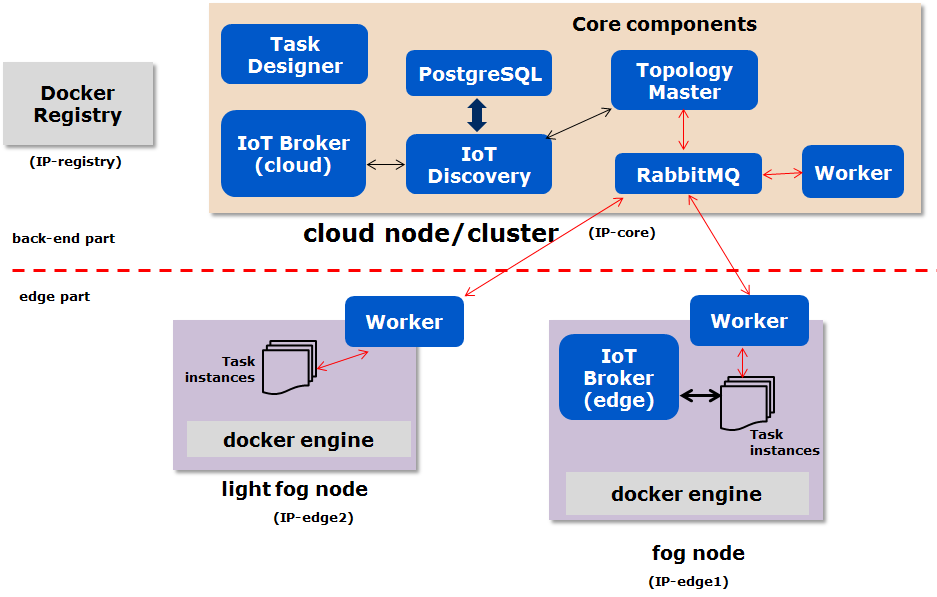
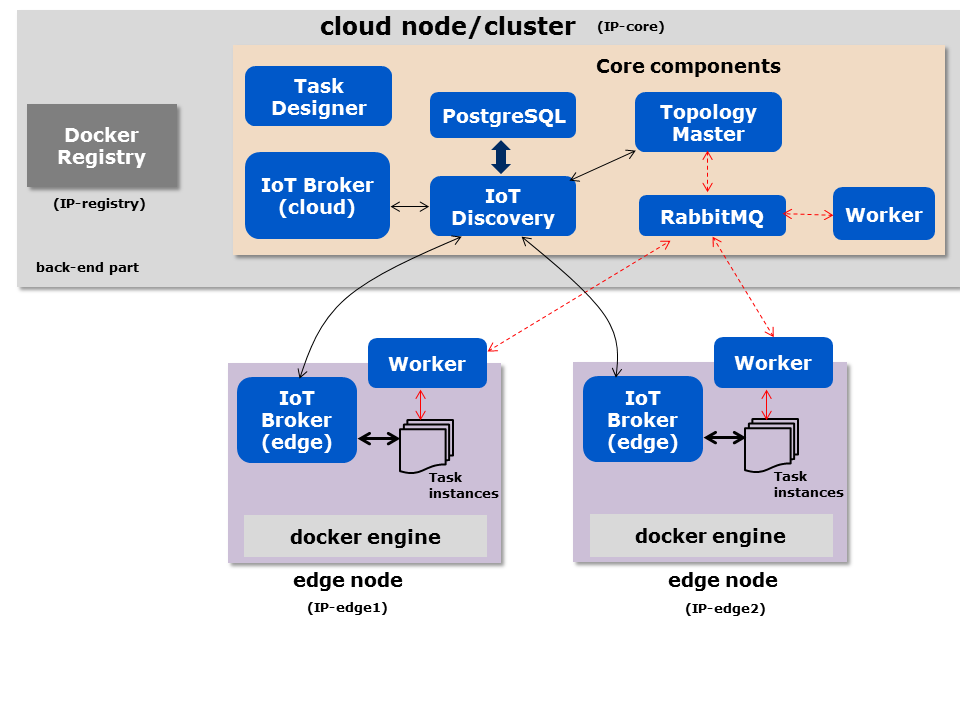
update the dashboard website and tutorial

diff --git a/designer/public/index.html b/designer/public/index.html
@@ -65,8 +65,12 @@
                     <div class="" id='content'>						
                     </div>                              
                 </div>
-            </div>
+            </div>            
+            
         </div>    		
+        
+        <!-- footer -->    
+		<div w3-include-html="footer.html"></div> 		        
     </body>
 
 </html>

diff --git a/designer/public/css/dashboard.css b/designer/public/css/dashboard.css
@@ -79,4 +79,20 @@ body {
     stroke-opacity: 1;
 }
 
+.footerStyle
+{
+    background-color: linear-gradient(to bottom, #f8f8f8, #ffffff);
+    position: absolute;
+    left: 0;
+    bottom: 0;
+    height: 100px;
+    width: 100%;
+    overflow: hidden;    
+	margin-top: 20px;
+	padding-top: 20px;
+	font-size: 11px;
+	text-align: center;
+}
+
+
 

diff --git a/designer/public/function.html b/designer/public/function.html
@@ -79,7 +79,11 @@
                     </div>                              
                 </div>
             </div>
-        </div>    		
+        </div>    
+
+        
+        <!-- footer -->    
+		<footer w3-include-html="footer.html"></footer> 		        		
     </body>
 
 </html>

diff --git a/designer/public/orion.html b/designer/public/orion.html
@@ -64,7 +64,11 @@
                     </div>                              
                 </div>
             </div>
-        </div>    		
+        </div>    
+
+        
+        <!-- footer -->    
+		<footer w3-include-html="footer.html"></footer> 		        		
     </body>
 
 </html>

diff --git a/designer/public/smartparking.html b/designer/public/smartparking.html
@@ -69,7 +69,11 @@
                     </div>                              
                 </div>
             </div>
-        </div>    		
+        </div>    
+
+        
+        <!-- footer -->    
+		<footer w3-include-html="footer.html"></footer> 		        		
     </body>
 
 </html>

diff --git a/designer/public/topology.html b/designer/public/topology.html
@@ -67,7 +67,11 @@
                     </div>                              
                 </div>
             </div>
-        </div>    		
+        </div>    
+
+        
+        <!-- footer -->    
+		<footer w3-include-html="footer.html"></footer> 		        		
     </body>
 
 </html>

diff --git a/designer/public/anomaly.html b/designer/public/anomaly.html
@@ -66,6 +66,10 @@
                 </div>
             </div>
         </div>    		
+        
+        
+        <!-- footer -->    
+		<footer w3-include-html="footer.html"></footer> 		                
     </body>
-
+    
 </html>

diff --git a/doc/en/source/deploymentview.rst b/doc/en/source/deploymentview.rst
@@ -24,12 +24,10 @@ The following components are made accessible from the outside, via their listeni
 * **Task Designer**: 8080
 
 
-Fog node
+Edge node
 -----------
-A fog node must deploy a worker and install docker-engine to run task instances. 
-Normally, it is also required to deploy an IoT broker at each fog node
-so that the data flow exchanged between task instances on the fog node can be done locally. 
-However, the IoT Broker at edge node is optional. 
+An edge node must provide the docker execution environment. Each edge node needs to run a worker and an IoT broker. 
+Physically, an edge node could be an IoT gateway, a virtual machine, or even an end-point device that supports docker.  
 
 
 Registry service

diff --git a/doc/en/source/edge.rst b/doc/en/source/edge.rst
@@ -1,4 +1,4 @@
-Start a fog node at edges
+Start an edge node
 ==========================
 
 Install Docker Engine 
